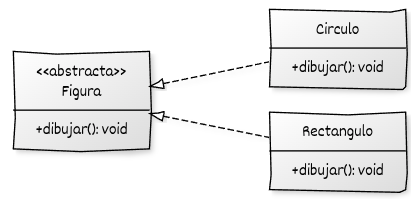
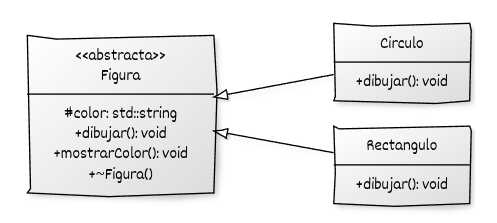
Modulo06

Changed region(s): [[0.031, 0.0302, 0.9928, 0.995]]

diff --git a/contenido/modulo06/abstracta.md b/contenido/modulo06/abstracta.md
@@ -28,47 +28,66 @@ Veamos un  ejemplo, donde se define una jerarquía de clases que representan fig
 
 // Clase base abstracta
 class Figura {
+protected:
+    std::string color;
+
 public:
+    Figura(const std::string& c = "negro") : color(c) {}
+
     virtual void dibujar() const = 0;  // Método virtual puro
-    virtual ~Figura() = default;       // Destructor virtual
+    virtual ~Figura() = default;
+
+    void mostrarColor() const {
+        std::cout << "Color: " << color << "\n";
+    }
 };
 
 // Clases derivadas concretas
 class Circulo : public Figura {
 public:
+    using Figura::Figura;  // Hereda constructor
+
     void dibujar() const override {
-        std::cout << "Dibujando un círculo\n";
+        std::cout << "Dibujando un círculo (" << color << ")\n";
     }
 };
 
 class Rectangulo : public Figura {
 public:
+    using Figura::Figura;
+
     void dibujar() const override {
-        std::cout << "Dibujando un rectángulo\n";
+        std::cout << "Dibujando un rectángulo (" << color << ")\n";
     }
 };
 
 int main() {
     std::vector<std::unique_ptr<Figura>> figuras;
 
-    figuras.push_back(std::make_unique<Circulo>());
-    figuras.push_back(std::make_unique<Rectangulo>());
+    figuras.push_back(std::make_unique<Circulo>("rojo"));
+    figuras.push_back(std::make_unique<Rectangulo>("azul"));
 
-    for (const auto& figura : figuras)
-        figura->dibujar();  // Llamada polimórfica
+    for (const auto& figura : figuras) {
+        figura->dibujar();      // Llamada polimórfica
+        figura->mostrarColor(); // Método común a todas las figuras
+    }
 }
-```
 
-* La clase Figura no proporciona una implementación concreta de `dibujar()`. Declara el método `dibujar()` como virtual puro (`= 0`), convirtiéndose en una clase abstracta. No puede instanciarse directamente y sirve como **interfaz común** para todas las figuras.
-* Cualquier clase derivada que herede de `Figura` estará **obligada** a implementar dicho método para ser instanciable. Las clases `Circulo` y `Rectangulo` redefinen el método `dibujar()` utilizando la palabra clave `override`, que garantiza que coincida exactamente con la función virtual de la base.
-* Si una clase derivada no implementa todos los métodos virtuales puros heredados, también será abstracta.
-* El destructor de una clase base polimórfica debe ser **virtual**, para garantizar la destrucción correcta de objetos derivados.
-* Se emplea `std::unique_ptr<Figura>` para gestionar los objetos polimórficos de forma automática.
-  Gracias al principio **RAII** (*Resource Acquisition Is Initialization*), los recursos dinámicos se liberan cuando los punteros inteligentes salen de ámbito, evitando fugas de memoria.
-* Un `std::vector` de punteros a `Figura` puede contener objetos de distintos tipos (`Circulo`, `Rectangulo`).
-  En el bucle, la llamada `figura->dibujar()` se resuelve dinámicamente según el **tipo real** del objeto, demostrando el uso del **polimorfismo dinámico**.
-* La clase base `Figura` declara un **destructor virtual**, lo que garantiza que, al destruir un `std::unique_ptr<Figura>`, se invoque correctamente el destructor del objeto derivado correspondiente (`Circulo` o `Rectangulo`).
-  Esto es indispensable cuando se trabaja con jerarquías polimórficas, ya que de lo contrario podría producirse una **destrucción incompleta** del objeto.
+```
+* La clase `Figura` **no proporciona una implementación concreta** del método `dibujar()`.
+  Declara este método como **virtual puro** (`= 0`), lo que convierte a `Figura` en una **clase abstracta**.
+  Por tanto, **no puede instanciarse directamente** y sirve como **interfaz común** para todas las figuras que deriven de ella.
+* Cualquier clase derivada de `Figura` está **obligada** a implementar el método `dibujar()` para poder ser instanciada.
+  Las clases `Circulo` y `Rectangulo` redefinen el método usando la palabra clave `override`, que indica que se trata de una **redefinición polimórfica** y permite al compilador verificar que la firma coincide exactamente con la de la clase base.
+* Si una clase derivada **no implementa todos los métodos virtuales puros** que hereda, **también se considera abstracta**, y no podrá instanciarse directamente.
+* El **destructor virtual** en `Figura` (`virtual ~Figura() = default;`) es **imprescindible en jerarquías polimórficas**.
+  Garantiza que, al destruir un objeto a través de un puntero a la clase base (`Figura*`), se invoque correctamente el destructor del tipo derivado correspondiente (`Circulo`, `Rectangulo`, etc.).
+  De no ser virtual, la destrucción sería incompleta y podría producir **fugas de memoria o recursos**.
+* En el programa, los objetos se gestionan mediante **punteros inteligentes** (`std::unique_ptr<Figura>`), que automatizan la gestión de memoria.
+  Gracias al principio **RAII** (*Resource Acquisition Is Initialization*), los recursos dinámicos se liberan de forma automática al salir de ámbito, sin necesidad de liberar memoria manualmente.
+* El contenedor `std::vector<std::unique_ptr<Figura>>` puede almacenar **objetos de distintos tipos derivados** (`Circulo`, `Rectangulo`, etc.) porque todos ellos comparten la misma interfaz base `Figura`.
+  En el bucle, la llamada `figura->dibujar()` se **resuelve dinámicamente en tiempo de ejecución**, según el **tipo real** del objeto apuntado, lo que ejemplifica el uso del **polimorfismo dinámico** en C++ moderno.
+
 
 ## UML
 

diff --git a/contenido/modulo06/interface.md b/contenido/modulo06/interface.md
@@ -34,8 +34,8 @@ Veamos un ejemplo: El siguiente programa define una interfaz pura `Dibujable` y 
 // Interfaz pura
 class Dibujable {
 public:
-    virtual void dibujar() const = 0;   // Método virtual puro
-    virtual ~Dibujable() = default;     // Destructor virtual
+    virtual void dibujar() const = 0;  // Solo declara el contrato
+    virtual ~Dibujable() = default;
 };
 
 // Clases concretas que implementan la interfaz
@@ -53,19 +53,21 @@ public:
     }
 };
 
-// Función que trabaja con la interfaz
+// Función que opera sobre la interfaz
 void renderizar(const std::vector<std::unique_ptr<Dibujable>>& objetos) {
     for (const auto& obj : objetos)
         obj->dibujar();  // Llamada polimórfica
 }
 
 int main() {
-    std::vector<std::unique_ptr<Dibujable>> figuras;
-    figuras.push_back(std::make_unique<Circulo>());
-    figuras.push_back(std::make_unique<Rectangulo>());
+    std::vector<std::unique_ptr<Dibujable>> objetos;
 
-    renderizar(figuras);
+    objetos.push_back(std::make_unique<Circulo>());
+    objetos.push_back(std::make_unique<Rectangulo>());
+
+    renderizar(objetos);
 }
+
 ```
 
 
